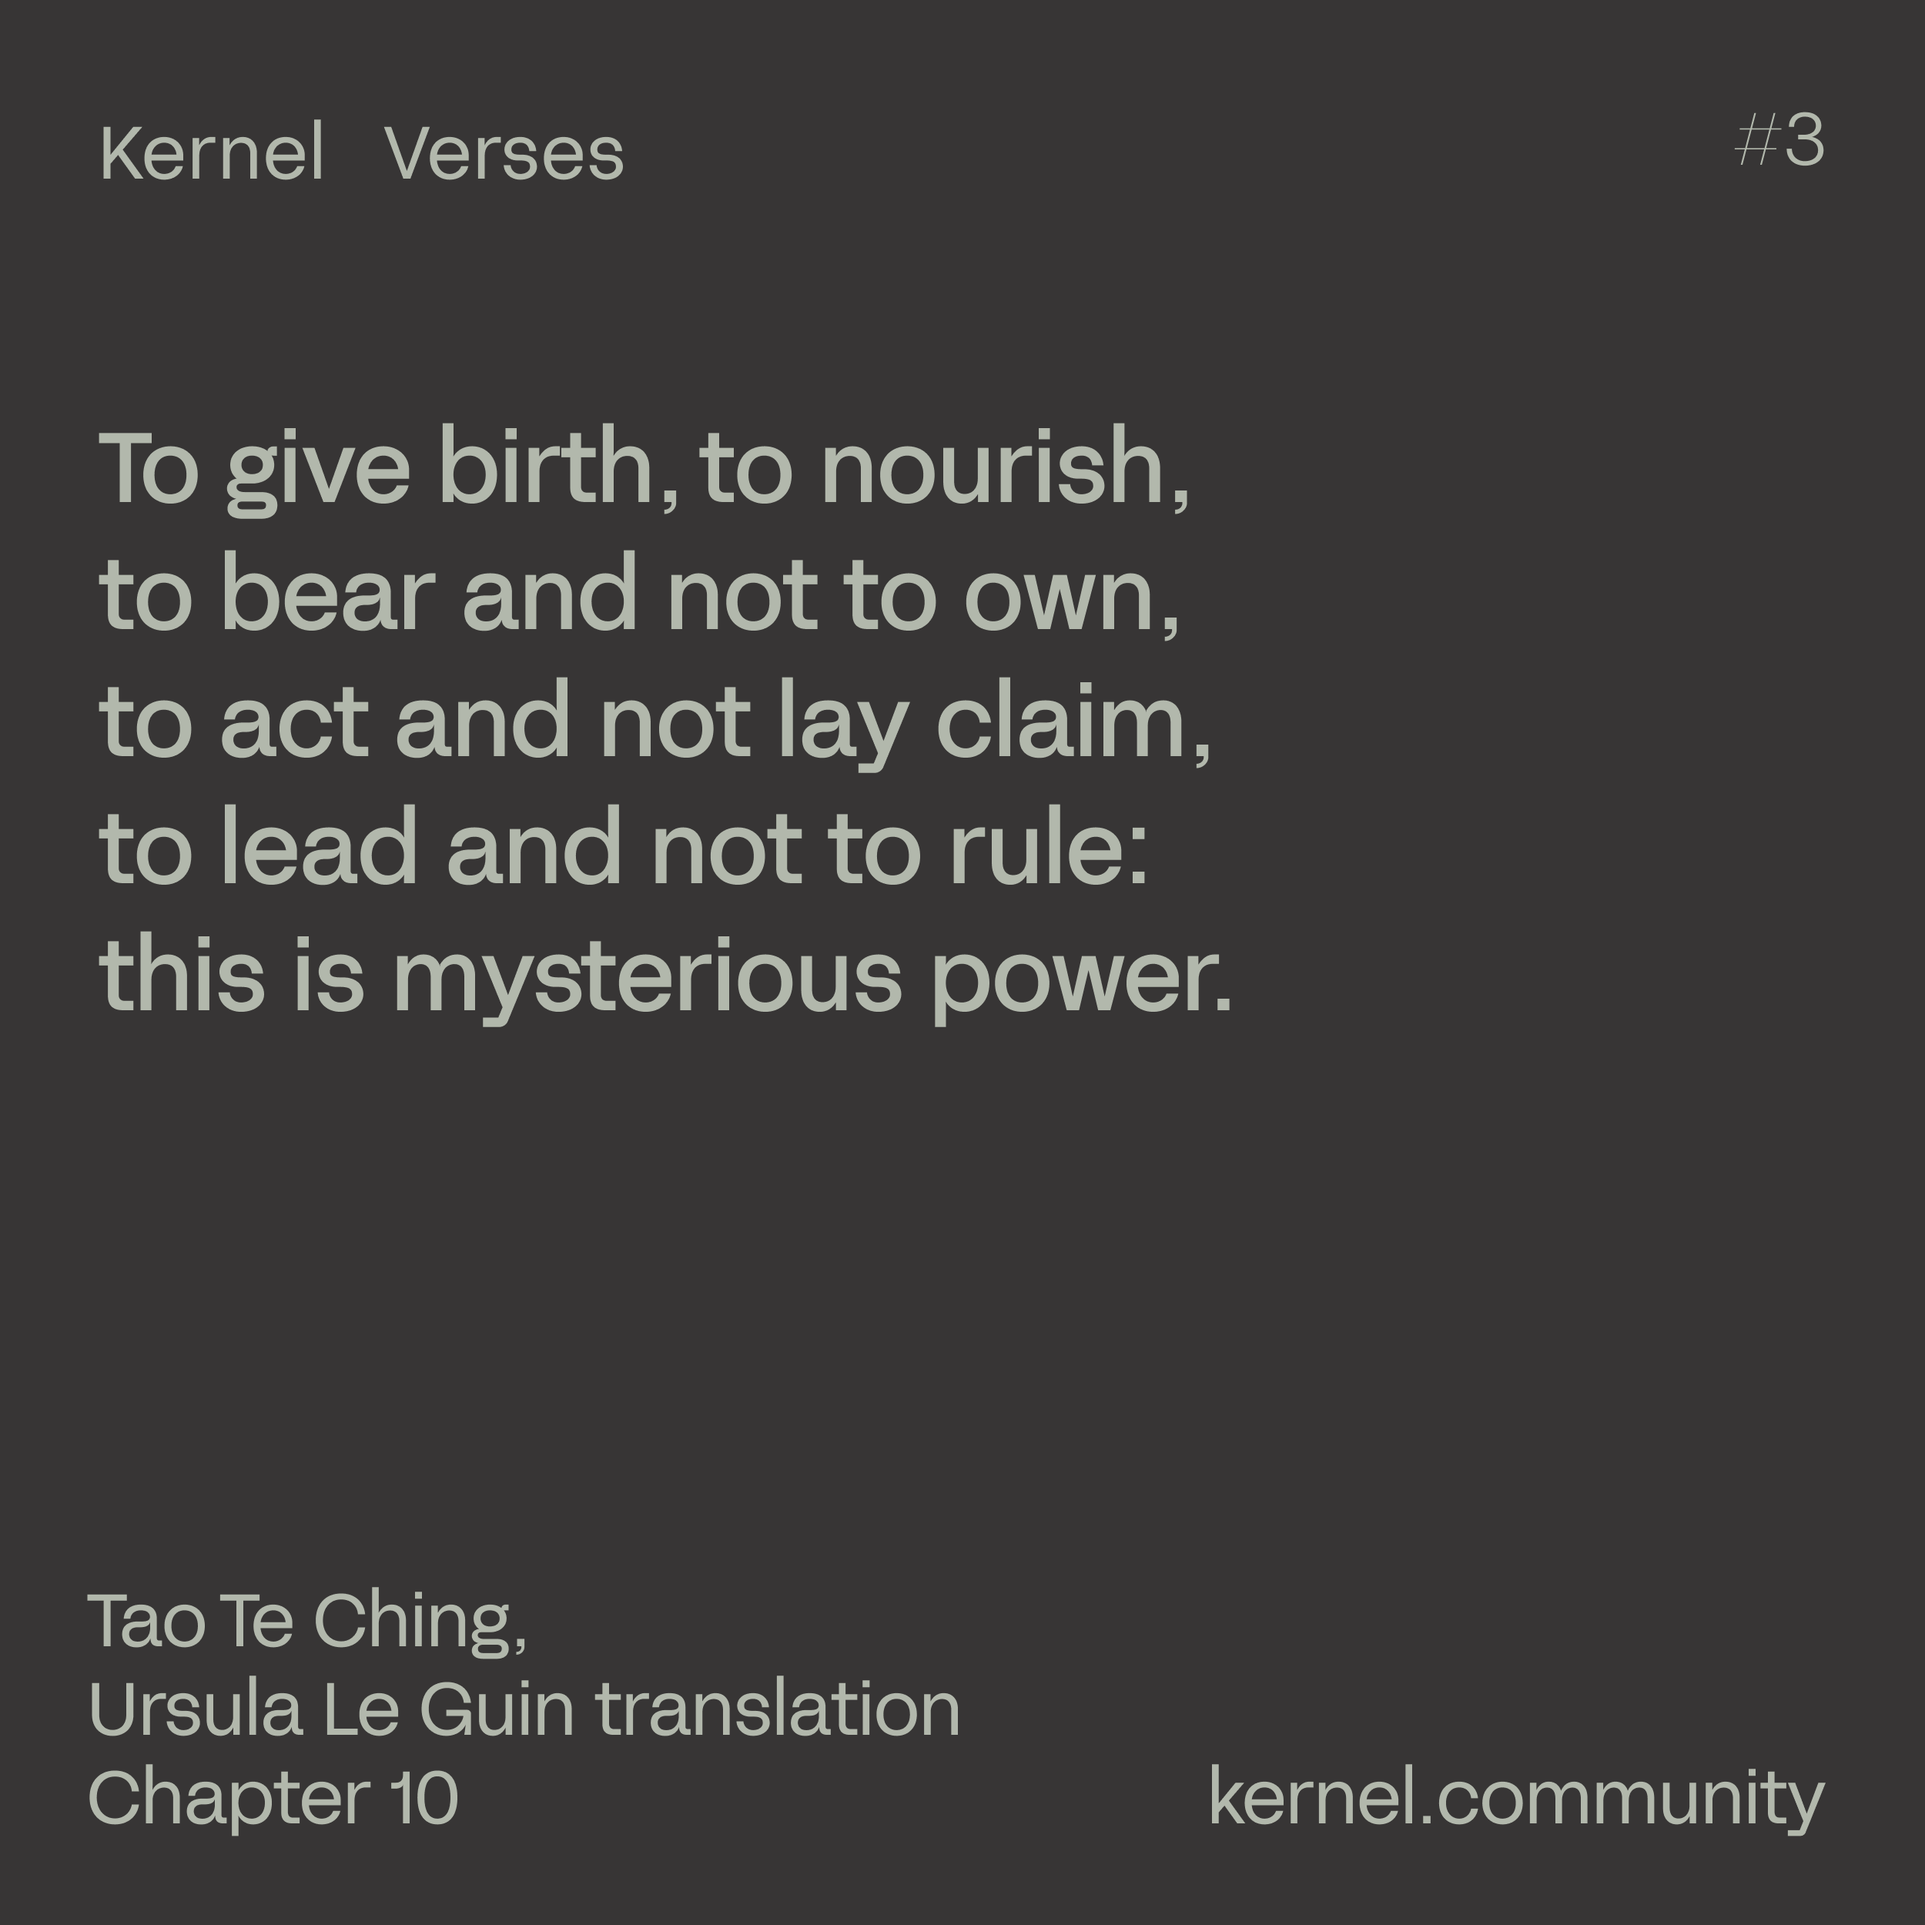
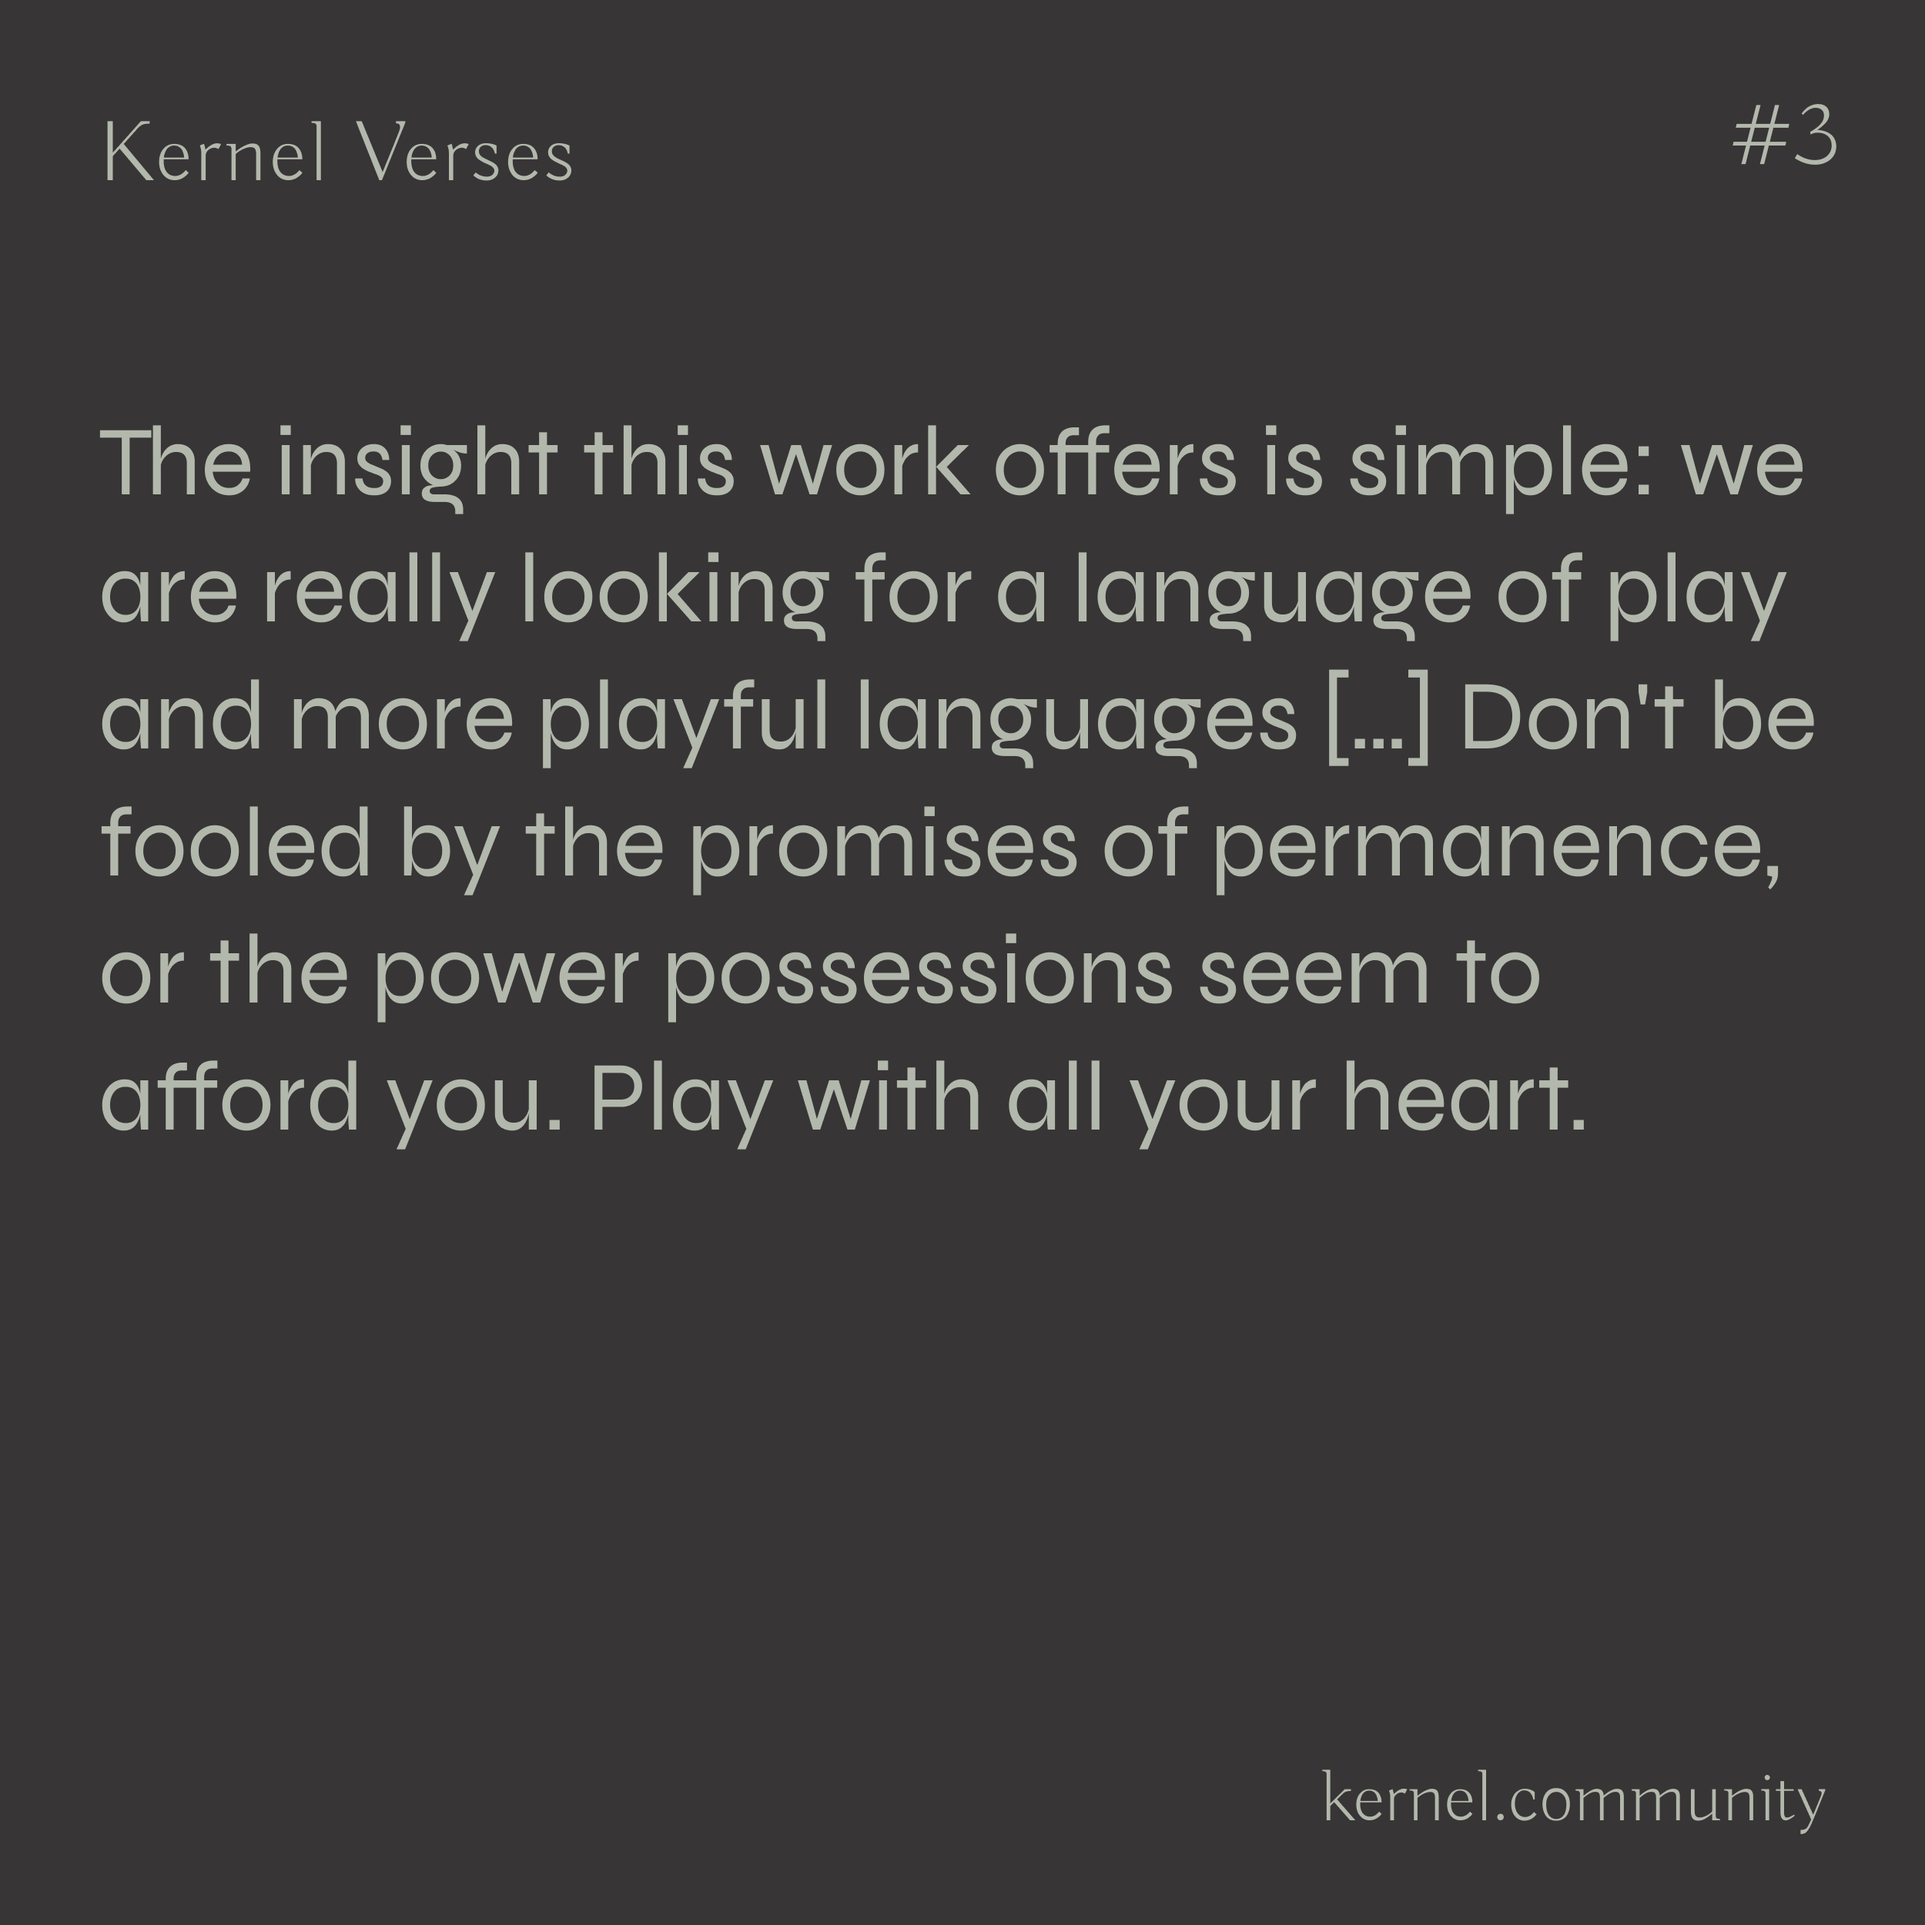
Permanently balanced play amongst all this passing life

diff --git a/packages/dapp/src/components/SliderModal/nft.js b/packages/dapp/src/components/SliderModal/nft.js
@@ -35,7 +35,7 @@ export const sealedNFTS = [
   {
     id: 1,
     text:
-      'Everything depends on the individual human being, regardless of how small a number of like-minded people there are […] on each person...',
+      'The complementary opposite of scarcity is not abundance, it is reciprocity...',
     image_Front_0: Front_0_1,
     image_Front_1: Front_1_1,
     image_Front_10: Front_10_1,
@@ -44,7 +44,7 @@ export const sealedNFTS = [
   {
     id: 2,
     text:
-      'Poetry, well placed, can serve up a subversive education in potent signs, drawing out what is already within so we can wake the dream into reality.',
+      '"Quantum thought": being able to contemplate 0 and 1 simultaneously, as well as the spectrum of probability between...',
       image_Front_0: Front_0_2,
       image_Front_1: Front_1_2,
       image_Front_10: Front_10_2,
@@ -53,7 +53,7 @@ export const sealedNFTS = [
   {
     id: 3,
     text:
-      'To give birth, to nourish, to bear and not to own, to act and not lay claim, to lead and not to rule: this is mysterious power.',
+      'The insight this work offers is simple: we are really looking for a language of play and more playful languages...',
       image_Front_0: Front_0_3,
       image_Front_1: Front_1_3,
       image_Front_10: Front_10_3,
@@ -62,7 +62,7 @@ export const sealedNFTS = [
   {
     id: 4,
     text:
-      'My storehouse burned down - now nothing stands between me and the moon above.',
+      'It is only when we are comfortable with our own state of neediness that we can communicate it clearly and honestly to others without projecting...',
       image_Front_0: Front_0_4,
       image_Front_1: Front_1_4,
       image_Front_10: Front_10_4,
@@ -70,7 +70,7 @@ export const sealedNFTS = [
   },
   {
     id: 5,
-    text: 'Empty-handed I entered into this world, Barefoot I leave it.',
+    text: 'The act of giving does not create gifts: it is only when one is received in good faith that a gift truly exists...',
     image_Front_0: Front_0_5,
     image_Front_1: Front_1_5,
     image_Front_10: Front_10_5,
@@ -78,7 +78,7 @@ export const sealedNFTS = [
   },
   {
     id: 6,
-    text: 'Real power has nothing to do with force, control, status, or money. Real power is the persistent courage to be at ease with the unsolved and the unfinished. To be able to recognise, in the scattered graffiti of your desires, the signature of the eternal.',
+    text: 'Happily, the language of the good is also a language of self-imposed limits, which seeks perfect expression only as a means towards...',
     image_Front_0: Front_0_6,
     image_Front_1: Front_1_6,
     image_Front_10: Front_10_6,
@@ -87,7 +87,7 @@ export const sealedNFTS = [
   {
     id: 7,
     text:
-      'To have without possessing, do without claiming, lead without controlling: this is mysterious power.',
+      'Our ability to create value has always been tied to the ways in which we tell stories about, and with, our shared records...',
       image_Front_0: Front_0_7,
       image_Front_1: Front_1_7,
       image_Front_10: Front_10_7,
@@ -96,7 +96,7 @@ export const sealedNFTS = [
   {
     id: 8,
     text:
-      'To bear and not to own; to act and not lay claim; to do the work and let it go: for just letting it go is what makes it stay.',
+      'Infinite games are to finite games as a container to the contained, or a background to the stage, or a field to the players moving on it...',
       image_Front_0: Front_0_8,
       image_Front_1: Front_1_8,
       image_Front_10: Front_10_8,
